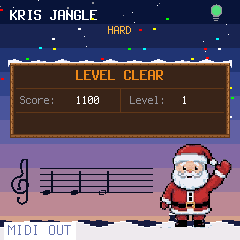
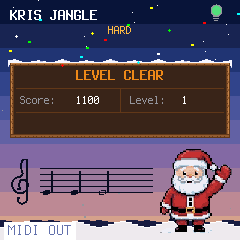
Kris Jangle: the level clear celebrates with confetti and a cha-ching — the jingle is for the song's end
A level clear no longer plays Santa's recorded reward jingle. It gets the
confetti and a little "cha-ching" — the sampled piano's bright stab and the
bell's "ching" — and Santa waves in the corner on Frosty's rhythm: a wave,
then a rest, phase-locked to the clear so he starts waving as it happens.
His jingle plays once now, when the whole song is done, with the confetti
and the fast celebration wave over it.

The confetti falls in two waves, a beat apart, a sparkle among every third
piece (a 3x3 plus that blinks down to a dot), and in front of the panel, so
the burst is not hidden behind it.

tests/basic.txt expects no recorded clip at a level clear now; the manual's
Result row follows.

diff --git a/kris-jangle/app.c b/kris-jangle/app.c
@@ -757,8 +757,13 @@ static struct {
     uint8_t msg_kind;                    /* last announcement kind, for tests */
     uint8_t jingle_idx;                  /* celebration jingle progress (255 = done) */
     uint32_t jingle_at;
+    uint8_t ding_idx;                    /* the level clear's "cha-ching": which step is next */
+    uint32_t ding_at;
+    uint32_t wave_at;                    /* the frame the level cleared: Santa's wave starts there */
     float conf_x[40], conf_y[40], conf_vx[40], conf_vy[40];
     uint8_t conf_c[40], conf_life[40];
+    uint8_t conf_wave;                    /* the confetti wave that is still to come (0: none) */
+    uint32_t conf_at;                     /* when it comes */
     uint32_t keys, btn;
     uint32_t key_good;                     /* held keys correct at press (YOUR TURN only; coloured dots) */
     /* the staff's notes, oldest first: what the demo and the player played */
@@ -1028,23 +1033,37 @@ static void enter_satan(void)
     app_say("SATAN MODE", "PLAY IT BACKWARDS");
 }
 
+/* The confetti: pieces that fall over the scene. Every level clear gets a
+ * burst, and a second wave follows it (the screen waits for PLAY, so the
+ * celebration keeps going). Every third piece of a wave is a sparkle: a 3x3
+ * plus that blinks down to a dot (conf_c's high bit says so, the low bits
+ * are the colour). */
+#define CONF_PIECES 40
+#define CONF_WAVE   20                      /* the pieces of one wave */
+#define CONF_SPARK  0x80u                   /* conf_c: this piece is a sparkle */
+static void start_confetti(uint32_t wave)
+{
+    uint32_t i, k;
+    for (i = 0; i < CONF_WAVE; i++) {
+        k = i + wave * CONF_WAVE;
+        ui.conf_x[k] = (float)((k * 67u + 13u) % 240u);
+        ui.conf_y[k] = -20.0f + (float)((k * 31u) % 60u);
+        ui.conf_vx[k] = ((float)((k * 17u) % 20u) - 10.0f) * 0.05f;
+        ui.conf_vy[k] = 1.0f + (float)((k * 13u) % 20u) * 0.1f;
+        ui.conf_c[k] = (uint8_t)(k % 5u) | (i % 3u == 0u ? CONF_SPARK : 0u);
+        ui.conf_life[k] = 90;
+    }
+}
+
+/* Santa's celebration: the recorded reward jingle, where the arpeggio was.
+ * It is for the end of the song, not for every level: a level clear gets the
+ * confetti and the little "cha-ching" instead. */
 static void start_celebration(void)
 {
     snd_play_id(SND_CLIP_REWARD);        /* the recorded reward jingle, where the arpeggio was */
     /* 255 = done: no procedural jingle over the clip; 0 = clip missing, fall back to the arpeggio */
     ui.jingle_idx = snd_on ? 255u : 0u;
     ui.jingle_at = plat_ms() + 150u;
-    {
-        uint32_t i;
-        for (i = 0; i < 40u; i++) {
-            ui.conf_x[i] = (float)((i * 67u + 13u) % 240u);
-            ui.conf_y[i] = -20.0f + (float)((i * 31u) % 60u);
-            ui.conf_vx[i] = ((float)((i * 17u) % 20u) - 10.0f) * 0.05f;
-            ui.conf_vy[i] = 1.0f + (float)((i * 13u) % 20u) * 0.1f;
-            ui.conf_c[i] = (uint8_t)(i % 5u);
-            ui.conf_life[i] = 90;
-        }
-    }
 }
 
 static void finish_level(void)
@@ -1069,8 +1088,14 @@ static void finish_level(void)
         set_dirty = 1;
     }
     set_dirty = 1;
-    start_celebration();
+    start_confetti(0);                   /* every level clear: the confetti */
+    ui.conf_wave = 1;                    /* ... and a second wave, a beat later */
+    ui.conf_at = plat_ms() + 700u;
+    ui.ding_idx = 0;                     /* ... and the little "cha-ching" (tick_game) */
+    ui.ding_at = plat_ms() + 200u;
+    ui.wave_at = ui.frame;               /* Santa starts waving now (the LEVEL CLEAR screen) */
     if (ui.level >= NLEVELS) {
+        start_celebration();             /* the song's end: Santa's jingle, once */
         ui.state = ST_SONGDONE;
         ui.songdone_at = plat_ms();
         ui.redraw = 1;
@@ -1380,6 +1405,16 @@ void app_input_only(void) { input(); }
 
 static float ph_sin(uint32_t ph, float k);   /* defined with the sprites, below */
 
+/* The level clear's "cha-ching": the piano's bright stab (three notes at
+ * once) and the bell's "ching" a moment later. The piano is the sampled one
+ * the keys use and the bell is the synth, so the sound costs no clip and no
+ * flash. The notes are above the keys' range (F3..G5), so letting them ring
+ * out never cuts a held key. */
+static const uint8_t CHING_PIANO[3] = {80, 84, 88};             /* G#5, E6, D#6 */
+static const uint8_t CHING_PIANO_VEL[3] = {100, 80, 70};
+static const uint16_t DING_WAIT[3] = {90u, 310u, 0u};           /* the ching, then the release */
+#define CHING_BELL 91u                                          /* A6: the "ching" */
+
 static void tick_game(void)
 {
     uint32_t now = plat_ms();
@@ -1402,7 +1437,11 @@ static void tick_game(void)
     } else if (ui.state == ST_RESULT || ui.state == ST_SONGDONE) {
         static const uint8_t JINGLE[7] = {60, 64, 67, 72, 76, 79, 84};   /* C E G C E G C' (soft, low); fallback when the reward clip is missing */
         uint32_t i;
-        for (i = 0; i < 40u; i++) {
+        if (ui.conf_wave == 1u && now >= ui.conf_at) {
+            start_confetti(1);           /* the second wave, while the first still falls */
+            ui.conf_wave = 0;
+        }
+        for (i = 0; i < CONF_PIECES; i++) {
             if (ui.conf_life[i]) {
                 ui.conf_x[i] += ui.conf_vx[i] + ph_sin(ui.frame + i, 0.05f) * 0.3f;
                 ui.conf_y[i] += ui.conf_vy[i];
@@ -1410,13 +1449,35 @@ static void tick_game(void)
                 ui.conf_life[i]--;
             }
         }
-        if (ui.jingle_idx < 7u && now >= ui.jingle_at) {
-            sched_on(JINGLE[ui.jingle_idx], TIM_PIANO, 100);   /* piano: the fallback when the reward clip is missing */
-            ui.jingle_idx++;
-            ui.jingle_at = now + 160u;
-        } else if (ui.jingle_idx == 7u && now >= ui.jingle_at) {
-            sched_off();
-            ui.jingle_idx = 255u;
+        if (ui.state == ST_RESULT) {
+            /* the "cha-ching": the stab, the ching, then the release */
+            if (ui.ding_idx < 3u && now >= ui.ding_at) {
+                uint32_t k;
+                if (ui.ding_idx == 0u) {
+                    for (k = 0; k < 3u; k++)
+                        voice_on(CHING_PIANO[k], CHING_PIANO_VEL[k], TIM_PIANO, 1);
+                } else if (ui.ding_idx == 1u) {
+                    voice_on(CHING_BELL, 95, TIM_BELLS, 1);
+                } else {
+                    /* the release: the notes ring out and free their voices */
+                    voice_release(CHING_BELL);
+                    for (k = 0; k < 3u; k++)
+                        voice_release(CHING_PIANO[k]);
+                }
+                ui.ding_at = now + DING_WAIT[ui.ding_idx];
+                ui.ding_idx++;
+            }
+        } else {
+            /* The song's end: Santa's jingle, or the arpeggio standing in for
+             * the reward clip when this build has no recorded sounds. */
+            if (ui.jingle_idx < 7u && now >= ui.jingle_at) {
+                sched_on(JINGLE[ui.jingle_idx], TIM_PIANO, 100);   /* piano: the fallback when the reward clip is missing */
+                ui.jingle_idx++;
+                ui.jingle_at = now + 160u;
+            } else if (ui.jingle_idx == 7u && now >= ui.jingle_at) {
+                sched_off();
+                ui.jingle_idx = 255u;
+            }
         }
         if (ui.state == ST_SONGDONE && now >= ui.songdone_at + 4000u) {
             show_badge(ST_SONGDONE, ui.carol, (uint8_t)NLEVELS);   /* the celebration, then the trophy */
@@ -1676,12 +1737,42 @@ static void frosty_melt_spr(int32_t x, int32_t yb)
                     FROSTY_MELT1_W, FROSTY_MELT1_H, 1, 0);
     }
 }
-static void santa_spr(int32_t x, int32_t yb, uint32_t ph, int celebrate)
+/* Santa's wave: the same rhythm as Frosty's (a wave, then a rest, the pauses
+ * cycling), with two poses: the standing one and the one-arm wave
+ * (santa1.png, santa2.png). Both frames share the same cell and ground
+ * line, so he stays planted. */
+static void santa_wave(int32_t x, int32_t yb, uint32_t ph)
 {
-    /* 4-frame arm-raising wave; faster when celebrating. All frames share the
-     * same cell and ground line, so bottom-anchoring keeps him planted. */
-    int32_t bob = (int32_t)(ph_sin(ph, celebrate ? 2.0f : 1.0f) * (celebrate ? 6.0f : 2.0f));
-    uint32_t frame = (ph / (celebrate ? 9u : 16u)) % SANTA_NFRAMES;
+    static const uint16_t PAUSE[4] = {210u, 240u, 300u, 330u};
+    const uint32_t WAVE = 28u;               /* 14 frames per pose, one wave */
+    uint32_t period = 0, p, frame = 0;
+    int32_t bob = 0;
+    uint8_t i;
+    for (i = 0; i < 4u; i++)
+        period += WAVE + PAUSE[i];
+    p = ph % period;
+    for (i = 0; i < 4u; i++) {
+        if (p < WAVE) {
+            frame = (p / 14u) % 2u;          /* 0: standing, 1: the wave */
+            bob = (int32_t)(ph_sin(ph, 0.9f) * 4.0f);
+            break;
+        }
+        p -= WAVE;
+        if (p < PAUSE[i])
+            break;                           /* resting: frame 0, bob 0 */
+        p -= PAUSE[i];
+    }
+    draw_sprite(x - SANTA_W / 2, yb - SANTA_H + bob,
+                SANTA_PX + frame * (uint32_t)(SANTA_W * SANTA_H),
+                SANTA_PAL, SANTA_W, SANTA_H, 1, 0);
+}
+static void santa_spr(int32_t x, int32_t yb, uint32_t ph)
+{
+    /* 4-frame arm-raising wave, faster and bouncier for the celebration. All
+     * frames share the same cell and ground line, so bottom-anchoring keeps
+     * him planted. */
+    int32_t bob = (int32_t)(ph_sin(ph, 2.0f) * 6.0f);
+    uint32_t frame = (ph / 9u) % SANTA_NFRAMES;
     draw_sprite(x - SANTA_W / 2, yb - SANTA_H + bob,
                 SANTA_PX + frame * (uint32_t)(SANTA_W * SANTA_H),
                 SANTA_PAL, SANTA_W, SANTA_H, 1, 0);
@@ -1868,14 +1959,37 @@ static void snow_ground(int32_t surface, uint32_t ph)
     }
 }
 
+/* A sparkle: a 3x3 plus that blinks down to a dot, the twinkle the sky's
+ * stars use but quicker. ph is the piece's own phase, so the sparkles do
+ * not pulse in unison. */
+static void sparkle(int32_t x, int32_t y, uint32_t ph, uint16_t col)
+{
+    if ((ph / 5u) & 1u) {
+        rrect(x - 1, y, 3, 1, col);
+        rrect(x, y - 1, 1, 3, col);
+    } else {
+        rrect(x, y, 1, 1, col);
+    }
+}
+
 static void draw_confetti(void)
 {
     /* confetti over the scene, under the text */
     static const uint16_t CONF[5] = {0xF800u, 0x07E0u, 0xFFE0u, 0xFFFFu, 0x07FFu};
     uint32_t i;
-    for (i = 0; i < 40u; i++)
-        if (ui.conf_life[i])
-            rrect((int32_t)ui.conf_x[i], (int32_t)ui.conf_y[i], 3, 2, CONF[ui.conf_c[i] % 5u]);
+    for (i = 0; i < CONF_PIECES; i++) {
+        uint16_t col;
+        int32_t x, y;
+        if (!ui.conf_life[i])
+            continue;
+        col = CONF[ui.conf_c[i] & 7u];
+        x = (int32_t)ui.conf_x[i];
+        y = (int32_t)ui.conf_y[i];
+        if (ui.conf_c[i] & CONF_SPARK)
+            sparkle(x, y, ui.frame + i * 7u, col);
+        else
+            rrect(x, y, 3, 2, col);
+    }
 }
 
 /* Battery: a lightbulb by the title whose glow reads at a glance —
@@ -2416,18 +2530,17 @@ if ((ui.frame / 60u) & 1u)   /* blink ~1 Hz: on for a second, off for a second *
         break;
     }
     case ST_SONGDONE: {
-        santa_spr(198, 234, ui.frame, 1);
-        draw_confetti();
+        santa_spr(198, 234, ui.frame);        /* Santa celebrates: the wave */
         ttext(10, 40, &FONT_B, "SONG COMPLETE", C_HI);
         ttext(10, 64, &FONT_XS, CAROL_NAME[ui.carol], C_WHITE);
         int_text((int32_t)ui.score, t);
         ttext(10, 90, &FONT_XS, "SCORE", C_GRAY);
         ttext(70, 90, &FONT_XS, t, C_WHITE);
         ttext(10, 170, &FONT_XS, "PLAY: YOUR BADGE", C_GRAY);   /* then the trophy, the QR code */
+        draw_confetti();                      /* the frontmost: the confetti falls over it all */
         break;
     }
     case ST_RESULT: {
-        draw_confetti();                          /* behind the box */
         /* The clear stats as a boxed grid like YOUR TURN: a spanning LEVEL
          * CLEAR header, Score/Level in two columns, and the blinking PRESS
          * PLAY spanning a bottom row. Santa draws over the box. */
@@ -2449,7 +2562,8 @@ if ((ui.frame / 60u) & 1u)   /* blink ~1 Hz: on for a second, off for a second *
             int32_t pw2 = ttext(0, -5000, &FONT_XS, "PRESS PLAY", RGB(120, 255, 140));
             ttext((240 - pw2) / 2, 118, &FONT_XS, "PRESS PLAY", RGB(120, 255, 140));
         }
-        santa_spr(198, 234, ui.frame, 1);           /* top layer: over the box */
+        santa_wave(198, 234, ui.frame - ui.wave_at);   /* over the box, waving */
+        draw_confetti();                               /* the frontmost: the confetti falls over it all */
         break;
     }
     case ST_SOUND: {

diff --git a/kris-jangle/docs/MANUAL.md b/kris-jangle/docs/MANUAL.md
@@ -59,8 +59,8 @@ ridge and the snow below. The boot splash shows the frosted name over it:
 | Your turn | A boxed grid in a wooden frame (snow on the top edge): `YOUR TURN` in the gold header, then `Note: {played} / {total}`, `Score: {score}`, `Combo: {combo}` and `Misses: {misses}` (3 = Grump Mode) in two columns, and a blinking `Press PLAY to Repeat` below the box — PLAY replays the level. In EASY, the key to press stays lit the whole turn. Frosty melts as you miss: the first miss slumps him and tips his hat over his face, the second leaves him a puddle with his hat and scarf lying in it. A new turn puts him back together. |
 | Grump Mode | The Grump jeers (recorded clip), then you retry it. |
 | Satan Mode | The third Grump visit in one song. The Grump's lose sting and jeer play backwards, then the level's demo plays backwards, and you replay it backwards (`PLAY` skips the sounds). Clear the level and normal mode resumes where it was. While it lasts the dusk turns to an inferno — red sky bands, embers instead of snow, the ground ash with a hot rim, flames instead of snow on the box tops — and the devil watches the box where Frosty would stand; his own screen spells `EDOM NATAS`. |
-| Result | A boxed grid in a wooden frame (snow on the top edge): `LEVEL CLEAR` in the gold header, then `Score: {score}` and `Level: {level}` in two columns, and a blinking `PRESS PLAY` in a spanning bottom row — PLAY goes to the next level. |
-| Song complete | The whole song played: score, Santa and the confetti. The badge follows on its own — the trophy for the song, the QR code of the carol and the whole song (level 11). PLAY on the badge goes to the next song. |
+| Result | A boxed grid in a wooden frame (snow on the top edge): `LEVEL CLEAR` in the gold header, then `Score: {score}` and `Level: {level}` in two columns, and a blinking `PRESS PLAY` in a spanning bottom row — PLAY goes to the next level. The confetti falls in two waves, in front of the panel, a sparkle among every third piece, a bright piano stab and a bell say the level is clear, and Santa waves in the corner, waiting for the song to end. |
+| Song complete | The whole song played: score, Santa waving his thanks and the confetti, with Santa's jingle. The badge follows on its own — the trophy for the song, the QR code of the carol and the whole song (level 11). PLAY on the badge goes to the next song. |
 | Badge | A QR code on paper, with the carol and the level it is a badge for, `SCAN FOR YOUR BADGE` and `PLAY: BACK`. LFO opens it (on the title, the song's best level; after a level, the level just cleared; after a whole song, the song itself). Scan it with a phone's camera and the page on the phone shows the badge on the ice card — the carol's name, the level, the levels cleared, Frosty and the Grump he was saved from, a green `SAVED` seal, and `Congratulations, you saved Jingle Bells from the Grump. Save more carols to spread holiday cheer.` You can share it as an image. The page is the reference's own world (the indigo-to-rose sky, its snowflake stars, the ice card with its green seal) and is laid out for a phone held either way up: held sideways, the badge and the message stand side by side and the page does not scroll. It works offline after the first load; a badge from a scanned code is a challenge, not a verified trophy (that comes with the sound link). |
 | The staff | On the LISTEN, YOUR TURN and LEVEL CLEAR screens (not the title, the sound page or Grump Mode), a treble clef and five lines write the notes as they are played, on the sky under the boxes: there is no panel behind them, the staff is written in black ink on the dusk, and the firs on the ridge step aside so the ink is not lost in the trees. The demo's notes land on the staff as they sound, yours line up as you press. They carry the tune's own values — a quarter, a half, a dotted quarter — with the head a leaning oval, filled or hollow, the stem on the head's far side, the flag of an eighth, the dot of a dotted note, and a bar line every four beats. The staff is a bar of 4/4 that scrolls: what is written stays until a bar has passed, and the oldest notes leave at the left. A black key's head comes with a sharp sign; a note below the staff (F3 and under) draws its ledger lines. The notes are in ink, a miss in deep crimson (a bright red would not read on the pink sky). On by default — turned off with SELECT on the sound page (below). |
 | Held keys | While any key is physically held (sound pages and YOUR TURN; not on the title/HOME screen), a large note modal in a wooden frame (no snow) covers the screen showing every held note as `C4 60` (name + octave above, MIDI number below); it disappears on release. A note a phone or a computer sends over Bluetooth shows there too. On YOUR TURN each note carries a dot: green if it was correct when pressed, red if it was a miss. With the staff on, the modal stays hidden: the staff writes the notes instead, so the two never share the screen. |
